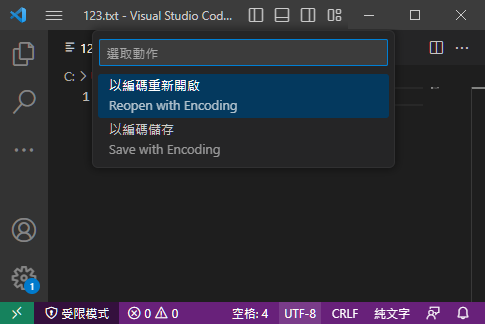
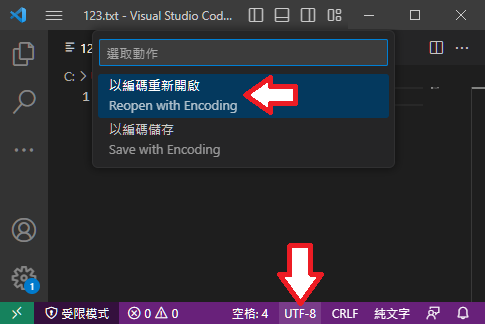
[修改] 智美DIY名稱開關

Changed region(s): [[0.5567, 0.7407, 0.6804, 0.9568], [0.4948, 0.216, 0.6186, 0.3704]]

diff --git a/blog/zigbee/zemi_diy_name_118_wall_switch.md b/blog/zigbee/zemi_diy_name_118_wall_switch.md
@@ -84,11 +84,11 @@ https://github.com/user-attachments/assets/94ce0dae-91bb-4ce7-8cdc-2e5ae7311e92
 
 ### Z2M支援尚不完整
 
-Z2M新版本v2.3.0支援這款產品
+Z2M新版本`v2.3.0`支援雙鍵、三鍵、四鍵版本
 
-但尚不支援單鍵版
+但尚**不支援單鍵版**
 
-需要自己拿其他鍵的內容來生成**外部轉換器**
+單鍵版需要自己拿其他鍵的內容來生成**外部轉換器**
 
 對非專業玩家來說難度很高
 
@@ -150,6 +150,13 @@ https://github.com/user-attachments/assets/94ce0dae-91bb-4ce7-8cdc-2e5ae7311e92
 
 ## 中文亂碼解決方案
 
+Z2M在設定按鍵名稱時不支援中文
+
+但可以透過兩種方法設定中文
+
+1. [接入塗鴉平台設定](#先接入塗鴉平台設定需要塗鴉網關)
+1. [編碼轉換](#透過iso-8859-1編碼轉換)
+
 ### 先接入塗鴉平台設定（需要塗鴉網關）
 
 在塗鴉平台透過Smart Life APP可以正常使用全功能
@@ -164,32 +171,34 @@ https://github.com/user-attachments/assets/94ce0dae-91bb-4ce7-8cdc-2e5ae7311e92
 
 ### 透過ISO-8859-1編碼轉換
 
-經過哈迪辛苦的測試與研究
+經過長時間的測試與研究
 
 發現可以通過編碼ISO-8859-1（又稱latin-1）實現中文設定
 
 流程如下：
 
 1. 建立一個文字檔
-1. 將編碼切為UTF-8
-1. 輸入你要的中文
-1. 將編碼切成ISO-8859-1
+1. 將編碼切為`UTF-8`
+1. 輸入中文名稱（最多4字）
+1. 將編碼切成`ISO-8859-1`
 1. 完整複製內容並貼到Z2M設定
-1. 下一組文字轉換，從切為UTF-8開始重複以上流程
+1. 下一組文字轉換，從切為`UTF-8`開始重複以上流程
 
 以下測試幾種文字編輯器可支援編碼轉換
 
-- Notepad++（PC）
-- Visual Studio Code（PC）
-- QuickEdit（Android）
+- [Notepad++](https://notepad-plus-plus.org/downloads/v8.8.1/)（PC）
+- [Visual Studio Code](https://code.visualstudio.com/download)（PC）
+- [QuickEdit](https://play.google.com/store/apps/details?id=com.rhmsoft.edit&hl=zh_TW)（Android）
 
-### Notepad++操作範例
+### Notepad++操作範例（Win10）
 
 建立一個123.txt並輸入中文
 
 ![](attachments/zemi_zms206/Z2M中文解決方案/notepadpp1.png)
 
-編碼→字元集→西歐語系→ISO-8859-1
+按照下圖操作去選擇ISO-8859-1
+
+> 編碼→字元集→西歐語系→ISO 8859-1
 
 ![](attachments/zemi_zms206/Z2M中文解決方案/notepadpp2.png)
 
@@ -207,15 +216,15 @@ https://github.com/user-attachments/assets/94ce0dae-91bb-4ce7-8cdc-2e5ae7311e92
 
 ![](attachments/zemi_zms206/Z2M中文解決方案/IMG_20250520_114429.jpg)
 
-### VSCode操作範例
+### VSCode操作範例（Win10）
 
 建立一個123.txt並輸入中文
-
-點選下方編碼（顯示UTF-8的位置）
 
 ![](attachments/zemi_zms206/Z2M中文解決方案/vscode1.png)
 
 按照下圖操作去選擇ISO-8859-1
+
+> UTF-8（右下角）→以編碼重新開啟→Western(ISO 8859-1)
 
 ![](attachments/zemi_zms206/Z2M中文解決方案/vscode2.png)
 
@@ -241,7 +250,7 @@ https://github.com/user-attachments/assets/94ce0dae-91bb-4ce7-8cdc-2e5ae7311e92
 - 如果編碼有做地區分類，試著尋找`西歐語系`
 - **不要使用線上網頁轉換器**，因網頁HTML可能會無法保留原始的latin-1內容
 
-## 其他小技巧
+## 其他建議
 
 ### 購買型號選擇
 
@@ -283,7 +292,7 @@ Z2M `v2.3.0`支援雙鍵、三鍵、四鍵
 - 三鍵：US$31.82（約NT$955）
 - 四鍵：US$33.30（約NT$999）
 
-官方賣場到台灣免運，但我是先送到大陸集運倉再走私人集運回台
+> 官方賣場到台灣似乎是免運，但個人是習慣先送到大陸集運倉再走私人集運回台
 
 撰寫此文時，廠家說淘寶官方尚未上架此產品
 
